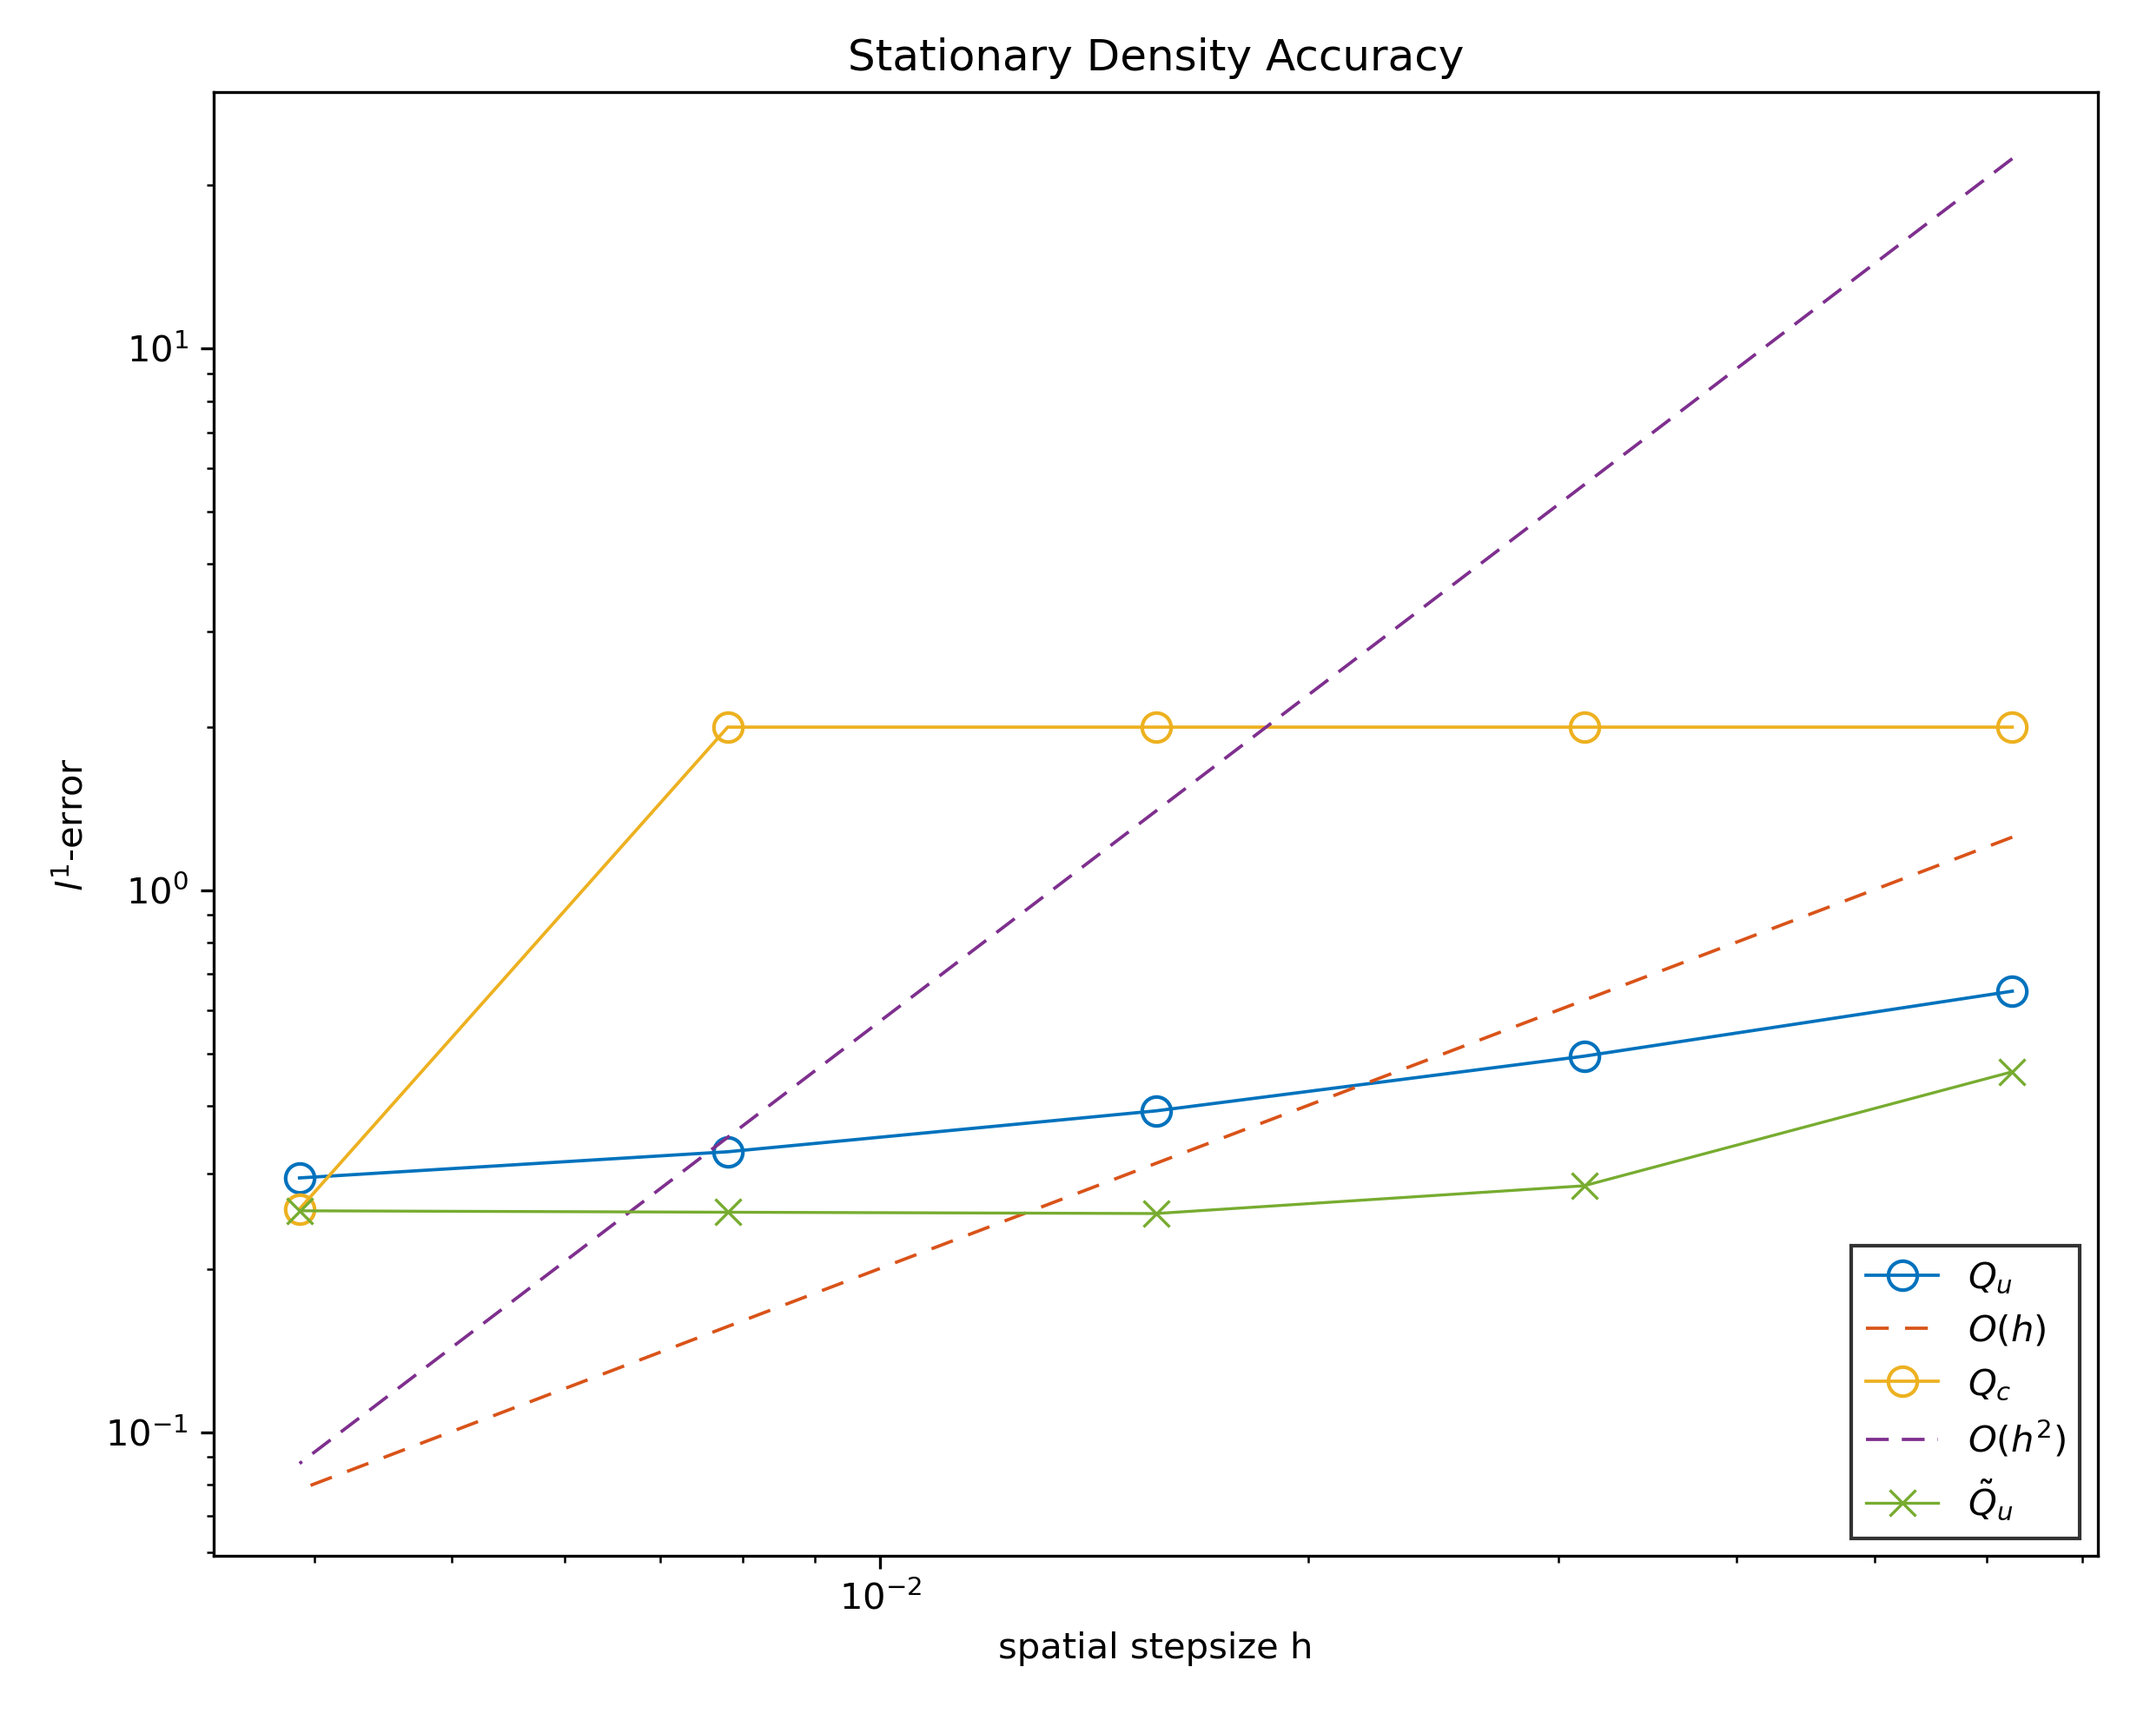
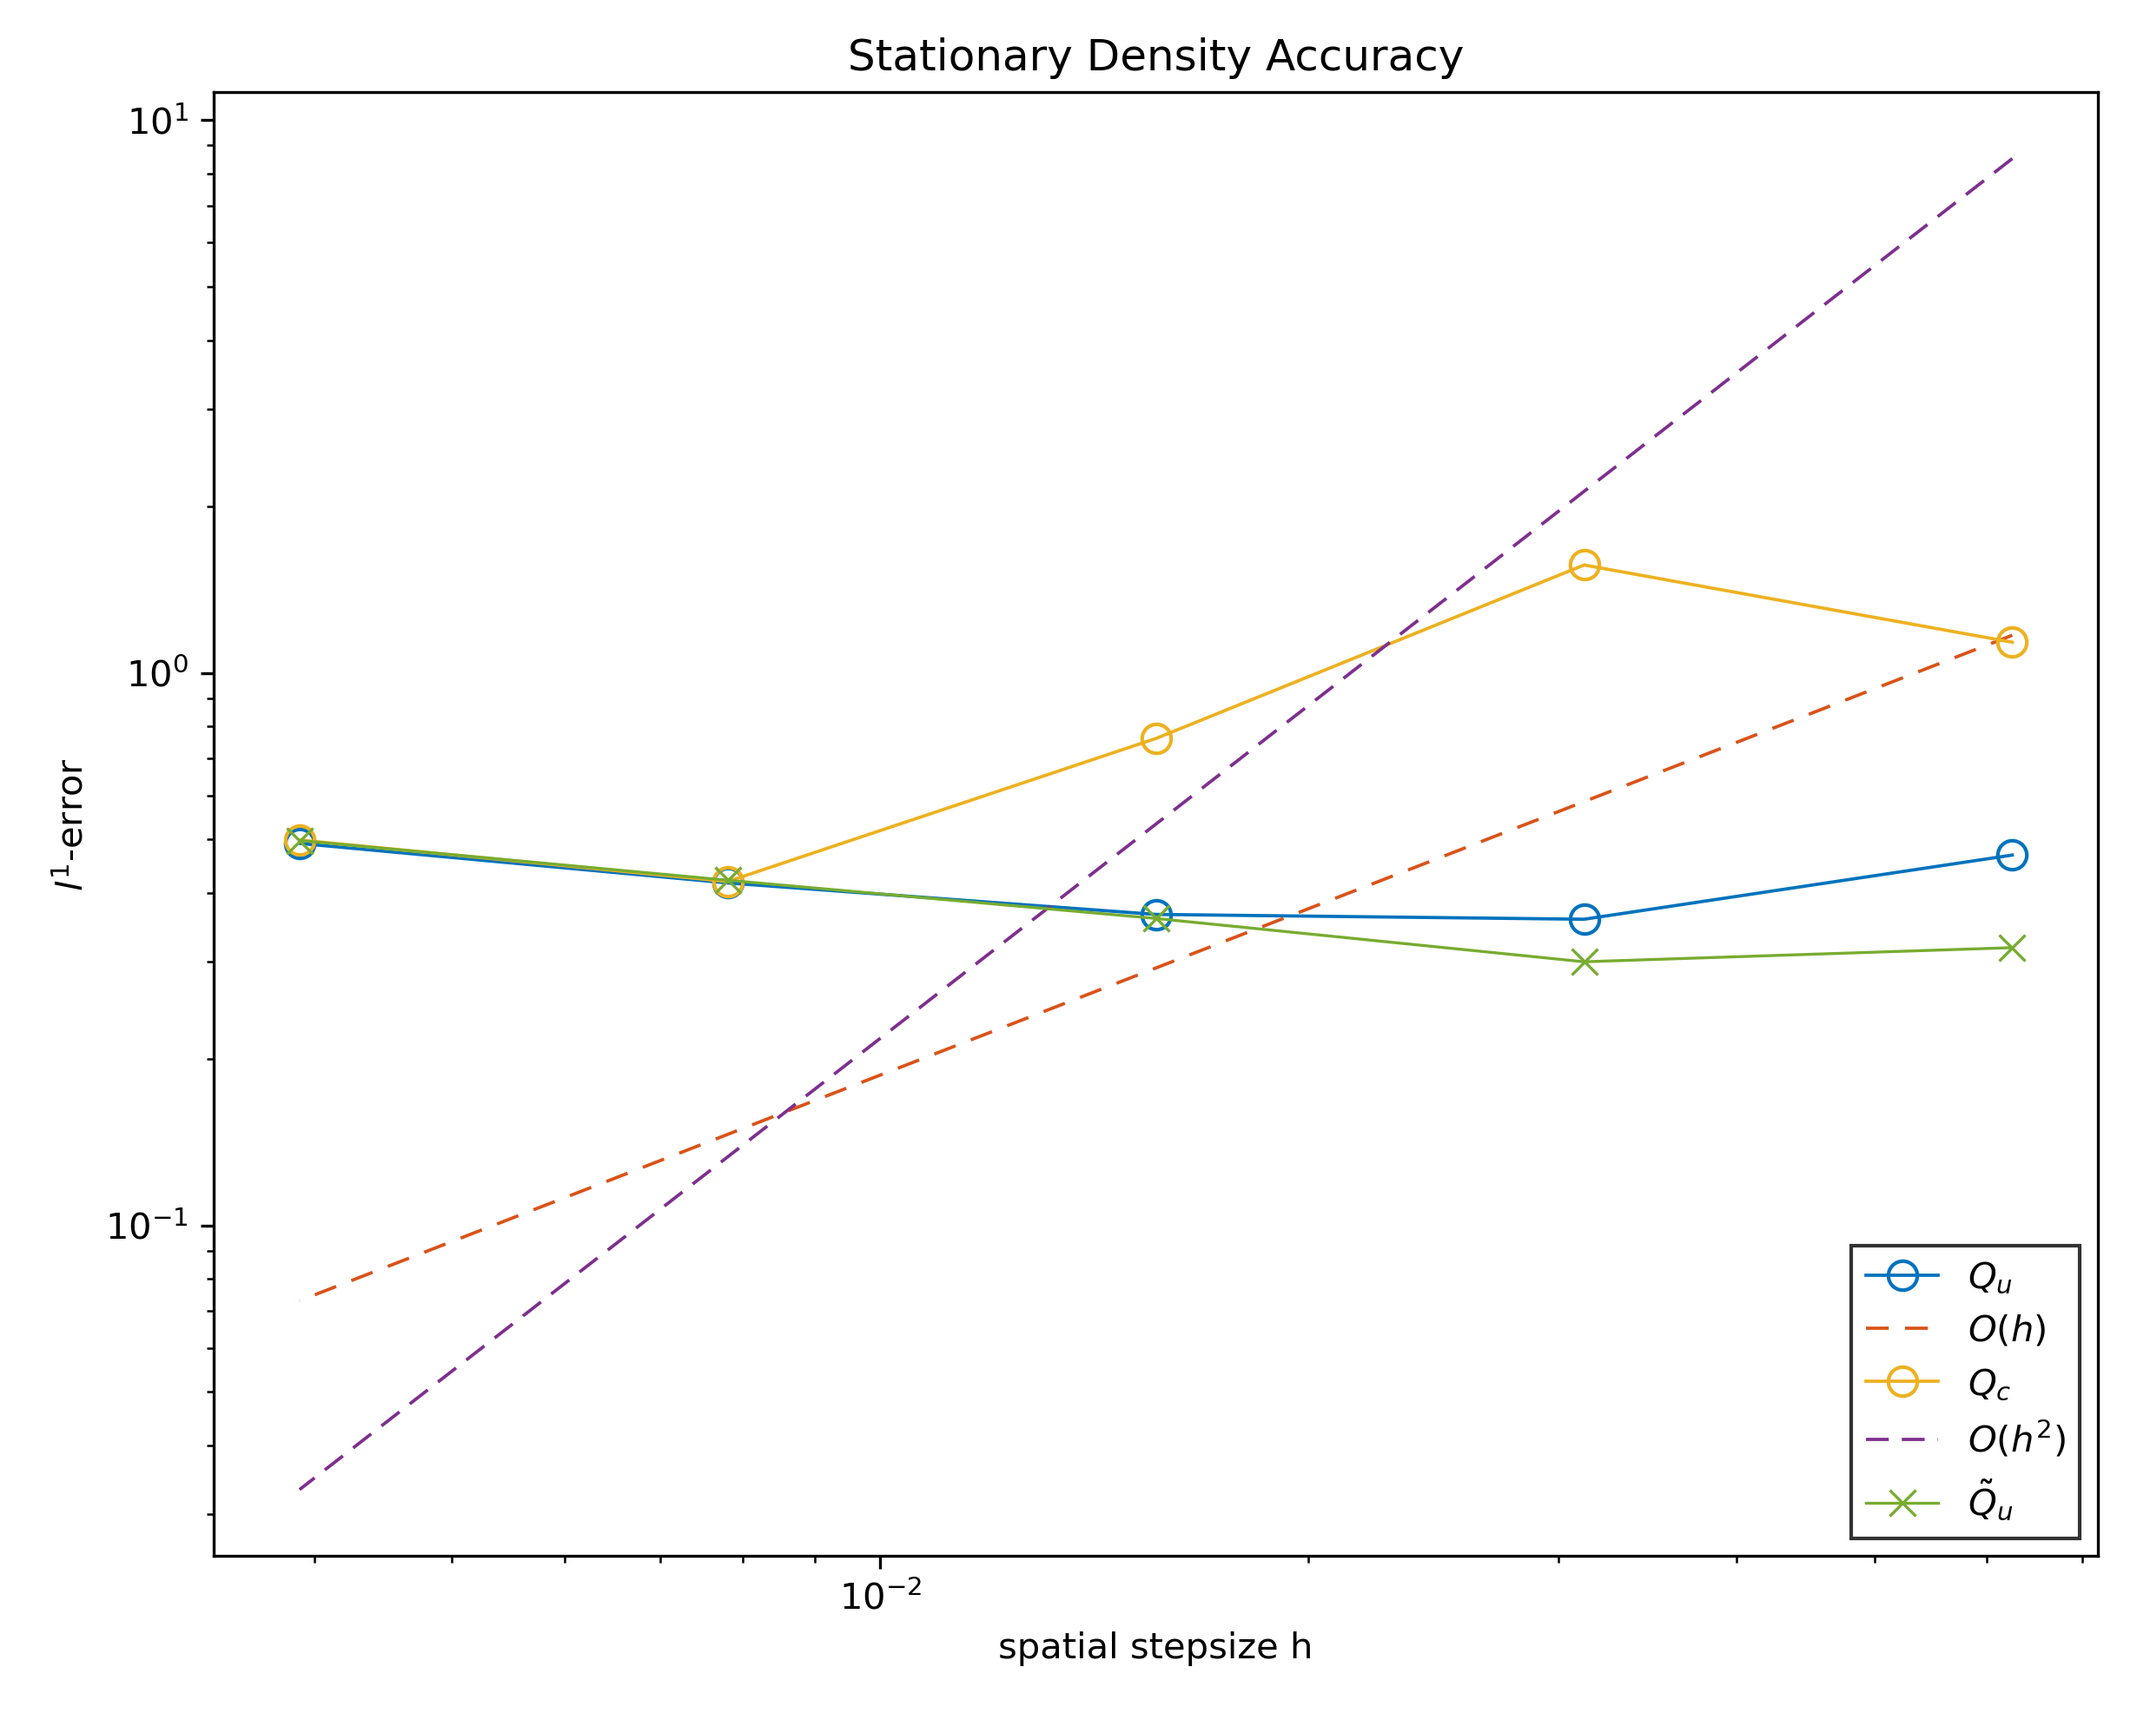
对ring_density收敛阶进行估计

diff --git a/26.02/阶数/v6.py b/26.02/阶数/v6.py
@@ -112,6 +112,13 @@ def local_slope(h: np.ndarray, e: np.ndarray) -> np.ndarray:
     return np.log(e[1:] / e[:-1]) / np.log(h[1:] / h[:-1])
 
 
+def fit_tail_order(h: np.ndarray, e: np.ndarray, tail_points: int = 3) -> float:
+    x = np.log(h[-tail_points:])
+    y = np.log(e[-tail_points:])
+    a, _b = np.polyfit(x, y, 1)
+    return float(a)
+
+
 def plot_accuracy(h_vals: np.ndarray, e_qu: np.ndarray, e_qc: np.ndarray, e_qtu: np.ndarray, out: Path) -> None:
     i0 = 2
     c1 = 0.8 * e_qu[i0] / h_vals[i0]
@@ -145,20 +152,20 @@ def main() -> None:
     n_list = [64, 128, 256, 512, 1024]
     h_vals = span / np.array(n_list, dtype=np.float64)
 
-    # v5-style tau-leaping occupancy pipeline
-    tau = 0.1
-    t_burn = 2_000_000.0
-    t_sample = 5_000_000.0
-    burn_steps = int(round(t_burn / tau))
-    sample_steps = int(round(t_sample / tau))
-    n_rep = 1
+    # v5-style tau-leaping occupancy pipeline, improved by:
+    # 1) n_rep averaging, 2) tau coupled with h, 3) tail-slope fitting
+    tau_factor = 0.2
+    tau_max = 0.02
+    t_burn = 50.0
+    t_sample = 300.0
+    n_rep = 4
 
     print("Ring density test with v5 algorithm pipeline")
     print(f"sigma={sigma}, domain=[{lowx},{lowx+span}]x[{lowy},{lowy+span}]")
     print(f"N={n_list}, h={h_vals}")
-    print(f"tau={tau}, burn_steps={burn_steps}, sample_steps={sample_steps}, n_rep={n_rep}")
+    print(f"tau=min({tau_factor}*h, {tau_max}), T_burn={t_burn}, T_sample={t_sample}, n_rep={n_rep}")
 
-    _ = simulate_stationary_histogram(16, 2, sigma, lowx, lowy, span, tau, 10, 20, seed=1)
+    _ = simulate_stationary_histogram(16, 2, sigma, lowx, lowy, span, 0.01, 10, 20, seed=1)
 
     # Table 3 l1-error values for direct reference/validation.
     table_qu = np.array([0.1964540, 0.1031750, 0.0530338, 0.0269501, 0.0135845], dtype=np.float64)
@@ -170,6 +177,9 @@ def main() -> None:
         err = np.zeros((3, len(n_list)), dtype=np.float64)
         for i, n in enumerate(n_list):
             h = span / n
+            tau = min(tau_factor * h, tau_max)
+            burn_steps = int(round(t_burn / tau))
+            sample_steps = int(round(t_sample / tau))
             rho_true = true_invariant_density(n, sigma, lowx, lowy, span)
             for scheme_id in range(3):
                 e_sum = 0.0
@@ -188,12 +198,19 @@ def main() -> None:
                     )
                     e_sum += l1_error(pi_hat, rho_true, h)
                 err[scheme_id, i] = e_sum / n_rep
-                print(f"N={n:4d}, scheme={scheme_id}, L1={err[scheme_id, i]:.6e}")
+                print(
+                    f"N={n:4d}, h={h:.6e}, tau={tau:.3e}, "
+                    f"steps=({burn_steps},{sample_steps}), scheme={scheme_id}, "
+                    f"L1={err[scheme_id, i]:.6e}"
+                )
 
         e_qu, e_qc, e_qtu = err[0], err[1], err[2]
         print("local slopes Qu:", local_slope(h_vals, e_qu))
         print("local slopes Qc:", local_slope(h_vals, e_qc))
         print("local slopes Qut:", local_slope(h_vals, e_qtu))
+        print("tail-fit order Qu (last 3 points):", fit_tail_order(h_vals, e_qu, 3))
+        print("tail-fit order Qc (last 3 points):", fit_tail_order(h_vals, e_qc, 3))
+        print("tail-fit order Qut (last 3 points):", fit_tail_order(h_vals, e_qtu, 3))
     else:
         e_qu, e_qc, e_qtu = table_qu, table_qc, table_qtu
 
